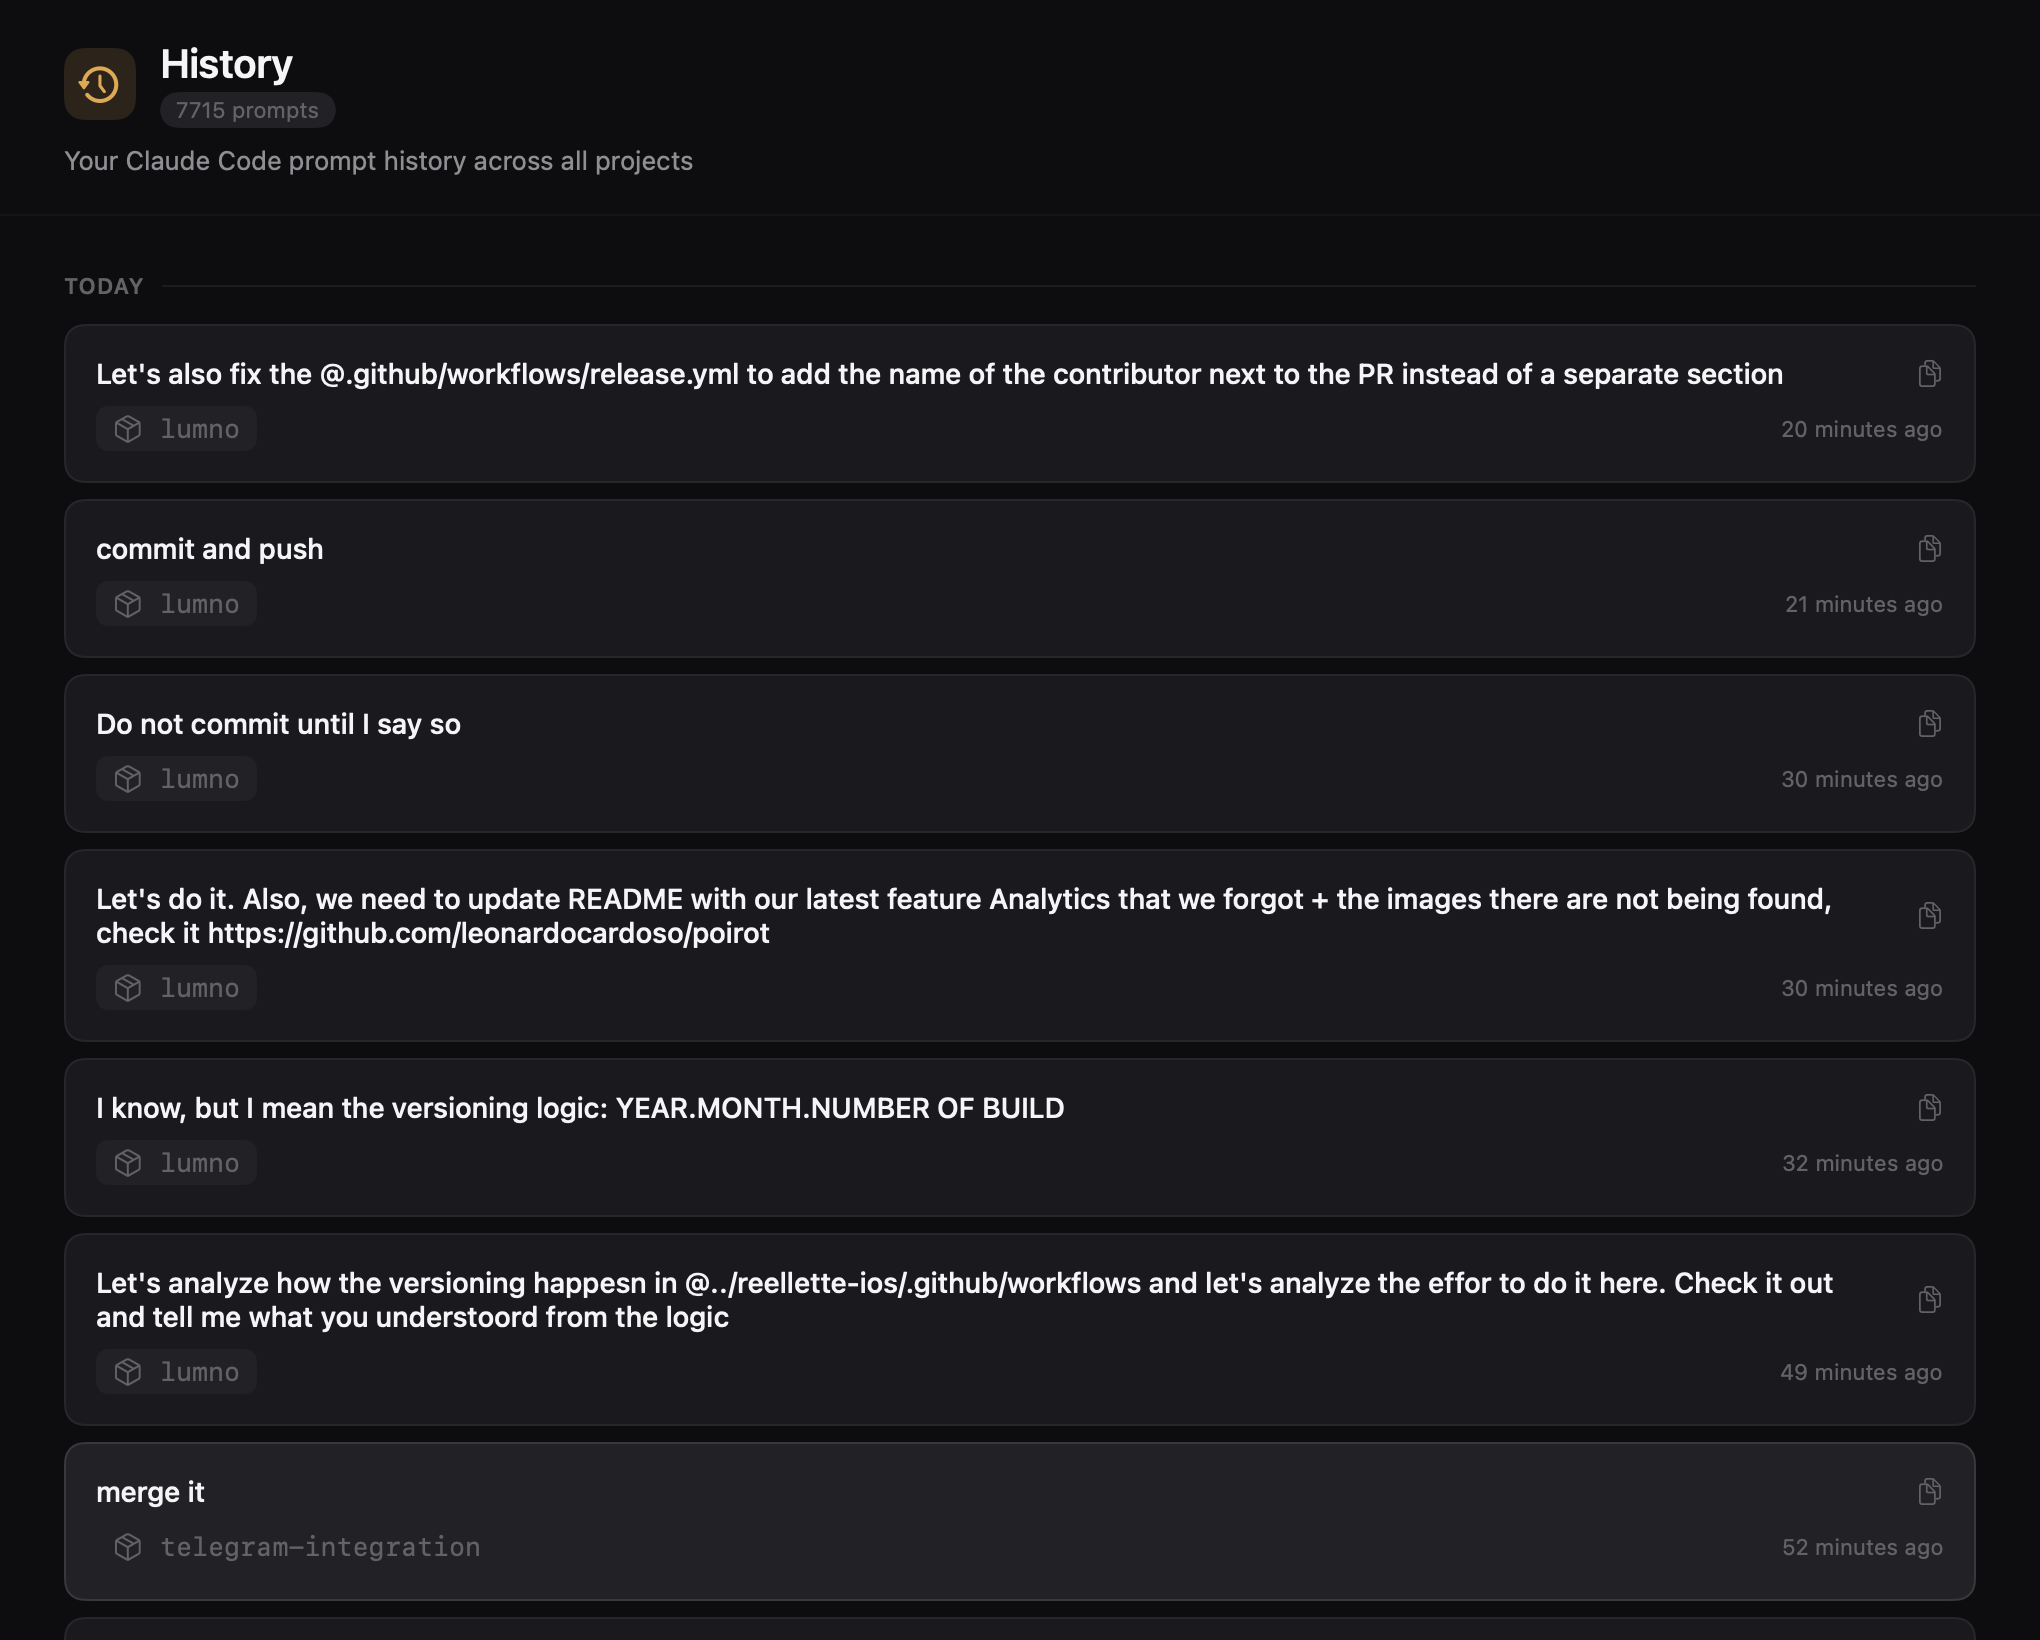
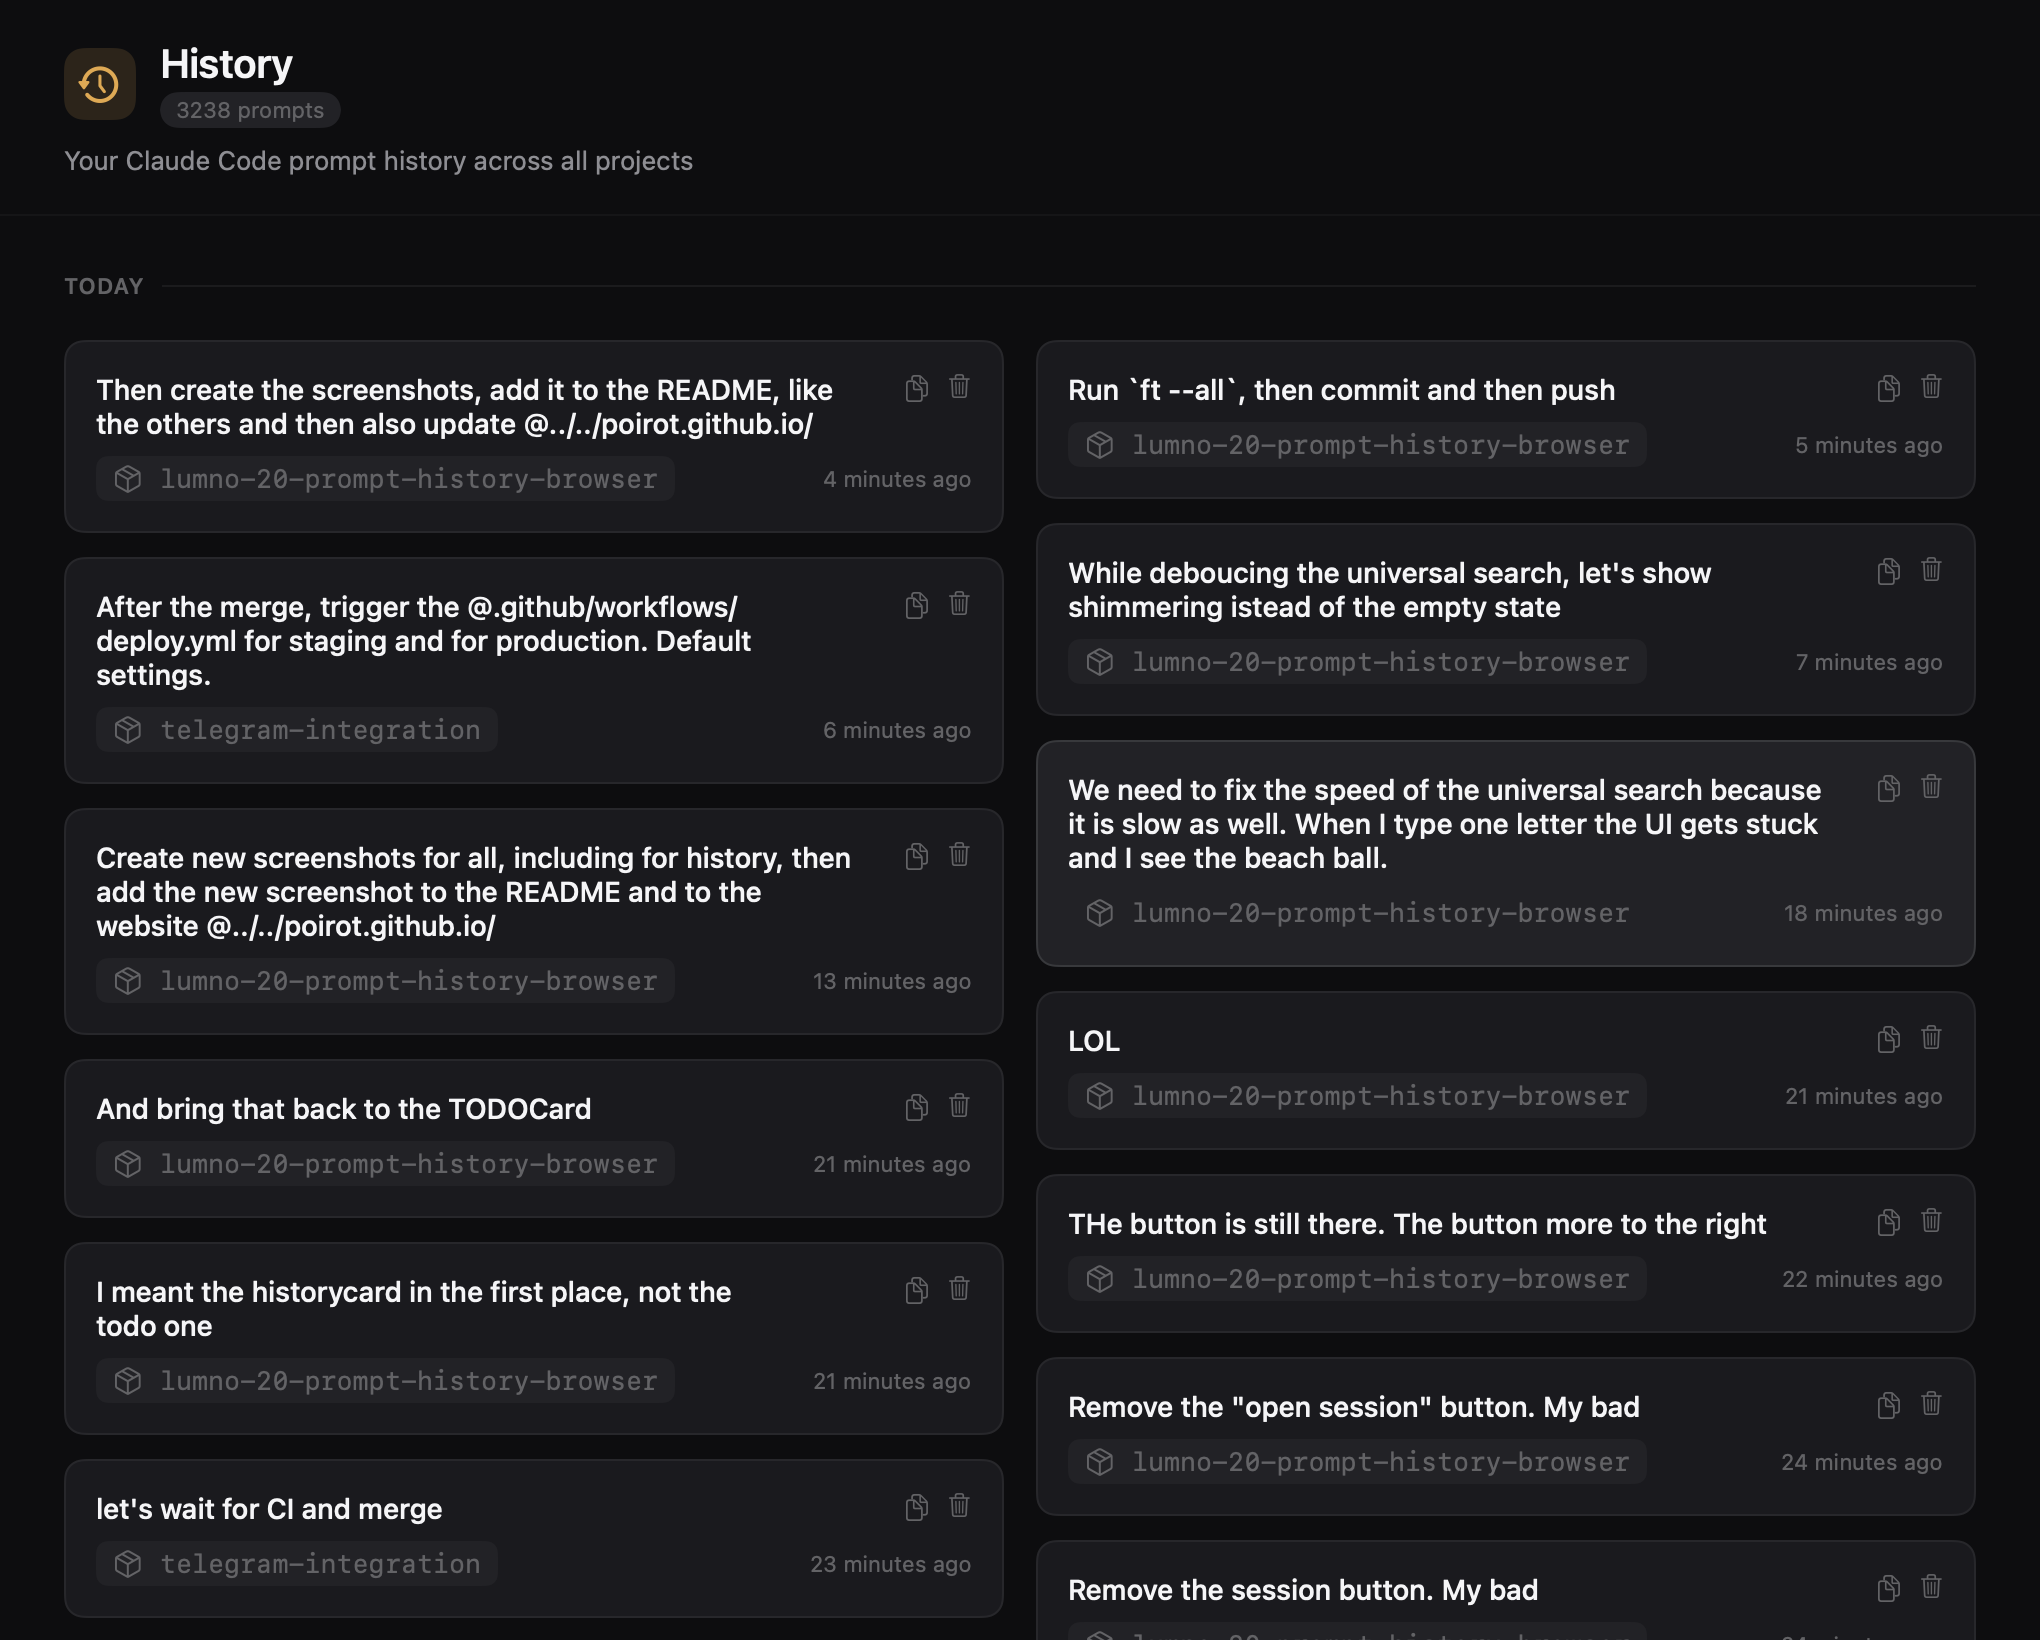
Update history screenshots and fix duplicate README section
- Regenerate history screenshots with go-to-session button removed
- Add history grid layout screenshot
- Remove duplicate Prompt History section from README

diff --git a/README.md b/README.md
@@ -178,13 +178,6 @@ Diagnose MCP server issues, permission failures, and startup problems with the p
   <img src="assets/showcase/21-debug-log.png" alt="Debug Log Viewer" width="720" />
 </p>
 
-### Prompt History
-Browse your entire Claude Code input history from `~/.claude/history.jsonl`. Prompts are grouped by date (Today, Yesterday, This Week, etc.), filterable by project, and searchable with full-text fuzzy matching. Copy any prompt to clipboard for reuse. Live file watching keeps the view up to date.
-
-<p align="center">
-  <img src="assets/showcase/21-history.png" alt="Prompt History" width="720" />
-</p>
-
 ---
 
 ## Capabilities
